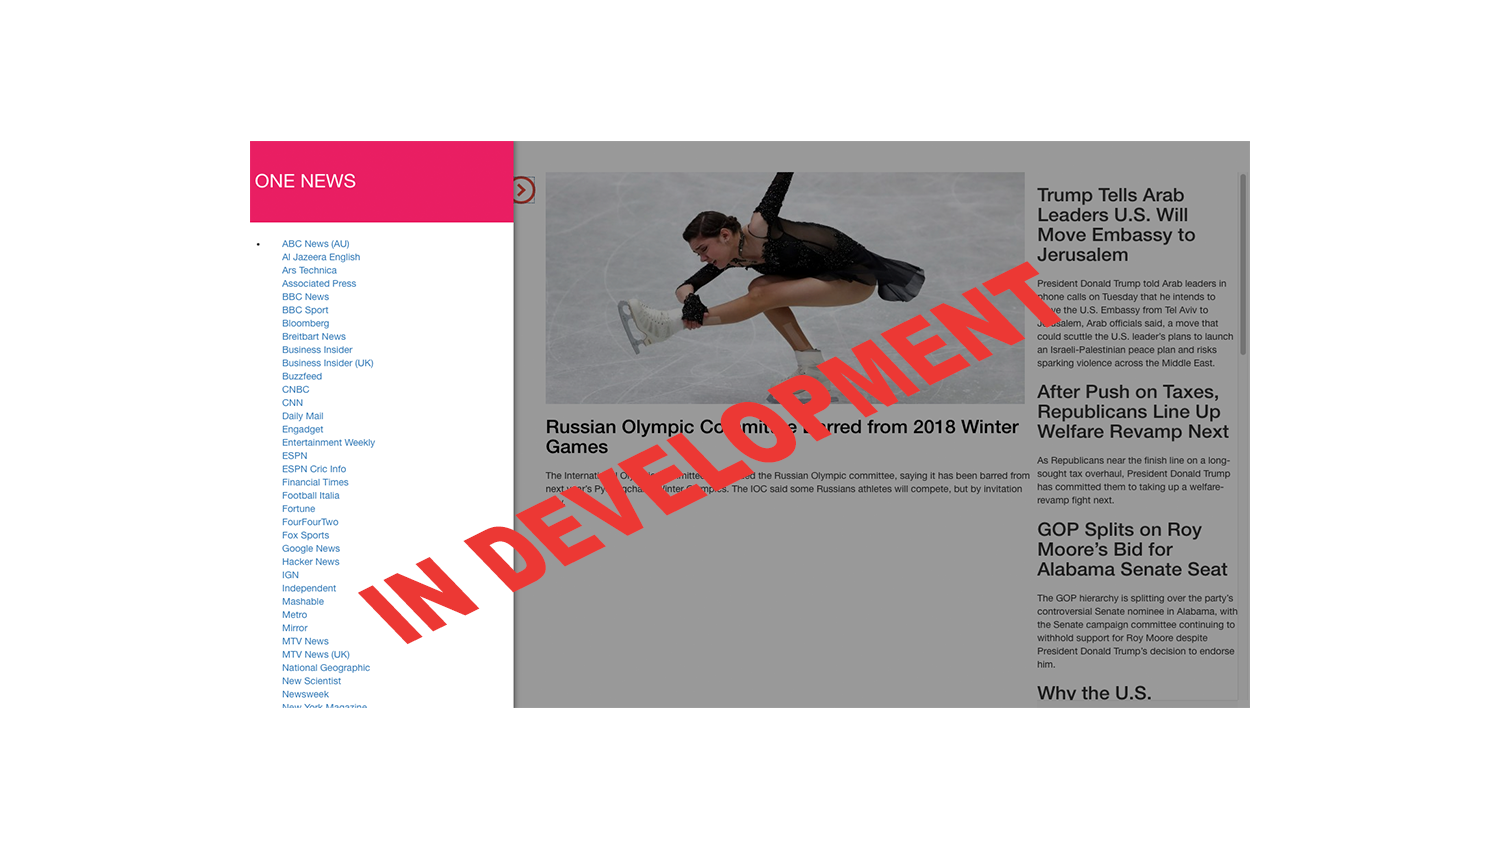
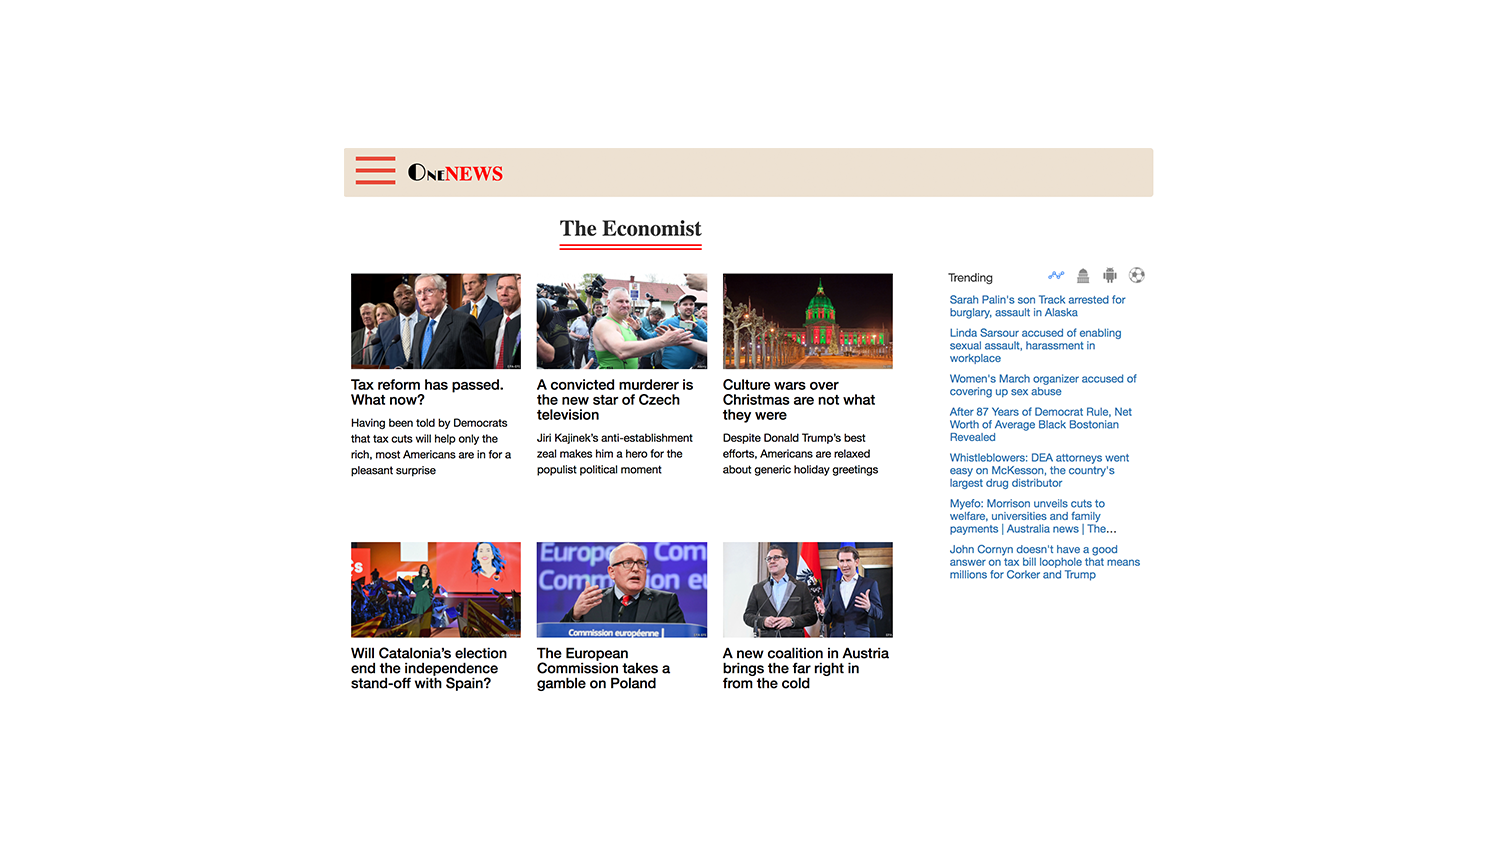
updated ONE NEWS img and info

diff --git a/index.html b/index.html
@@ -30,7 +30,7 @@
 	      <button class="header">Websites &amp; Web Apps</button><br/>
 		
 		   <div class="sample-box">
-	        <a href="https://github.com/sibalajp/one_news" target="_blank">
+	        <a href="http://onesnews.herokuapp.com" target="_blank">
 	          <div class="img-container l-purp">
 	            <img src="images/one_news.png" alt="">
 	            <div class="img-mask"><i class="pe-7s-news-paper pe-5x pe-va"></i></div>
@@ -42,7 +42,7 @@
 	          <div class="sample-footer">
 	            <a href="https://github.com/sibalajp/one_news" target="_blank" title="Github"><i class="fa fa-github-alt fa-lg" aria-hidden="true"></i></a>
 	            <a href="" title="Youtube" class="disabled" target="_blank"><i class="fa fa-youtube-play fa-lg" aria-hidden="true"></i></a>
-	            <a href="" class="disabled" title="Demo" target="_blank"><i class="fa fa-rocket fa-lg" aria-hidden="true"></i></a>
+	            <a href="http://onesnews.herokuapp.com"  title="One News" target="_blank"><i class="fa fa-rocket fa-lg" aria-hidden="true"></i></a>
 	          </div>
 	        </div>
 	      </div>
